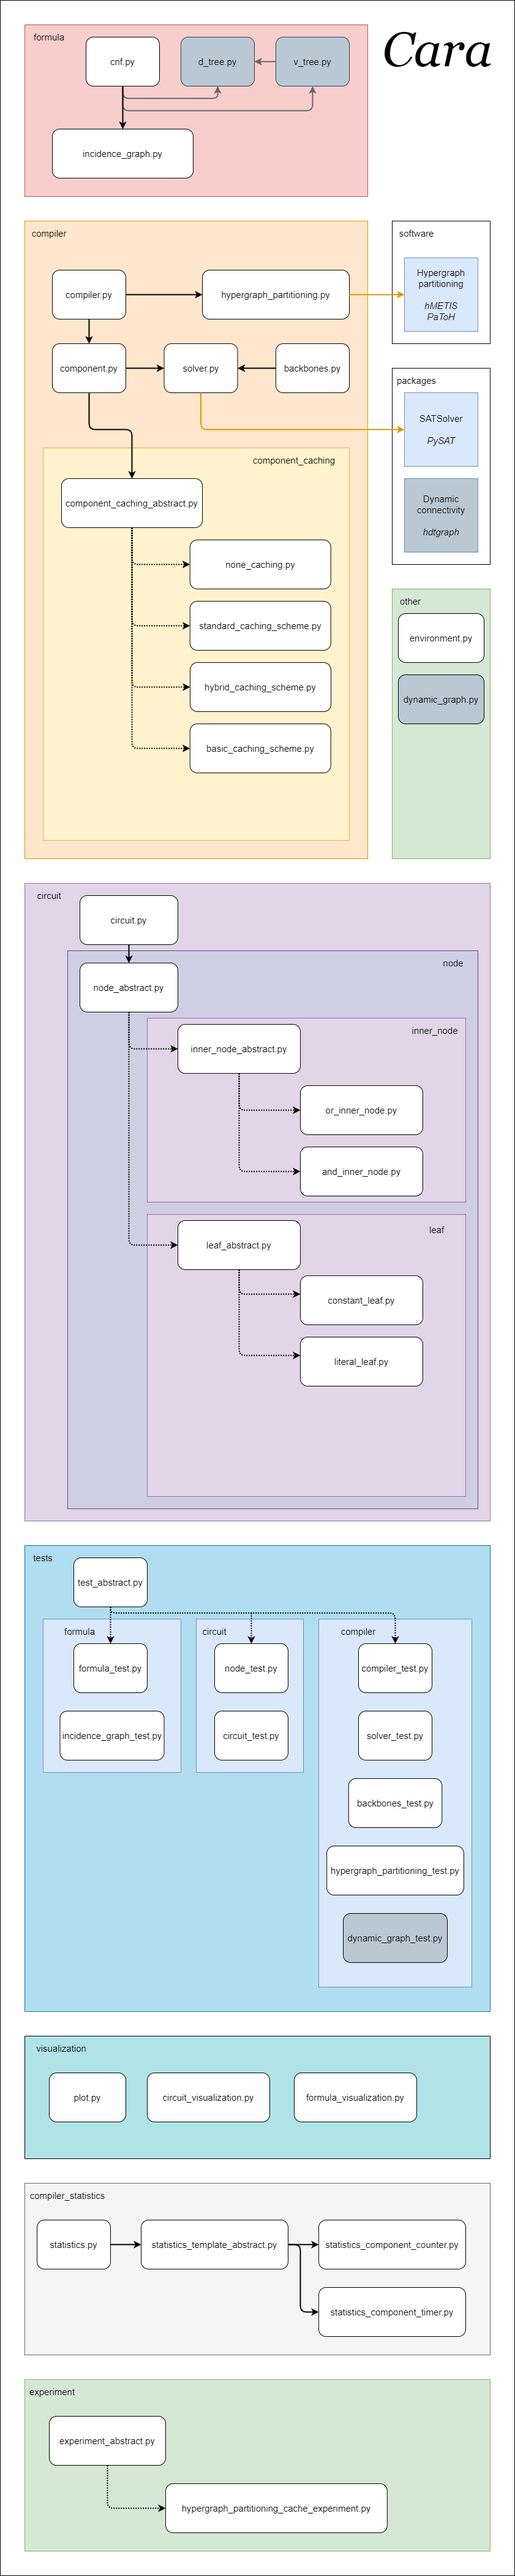
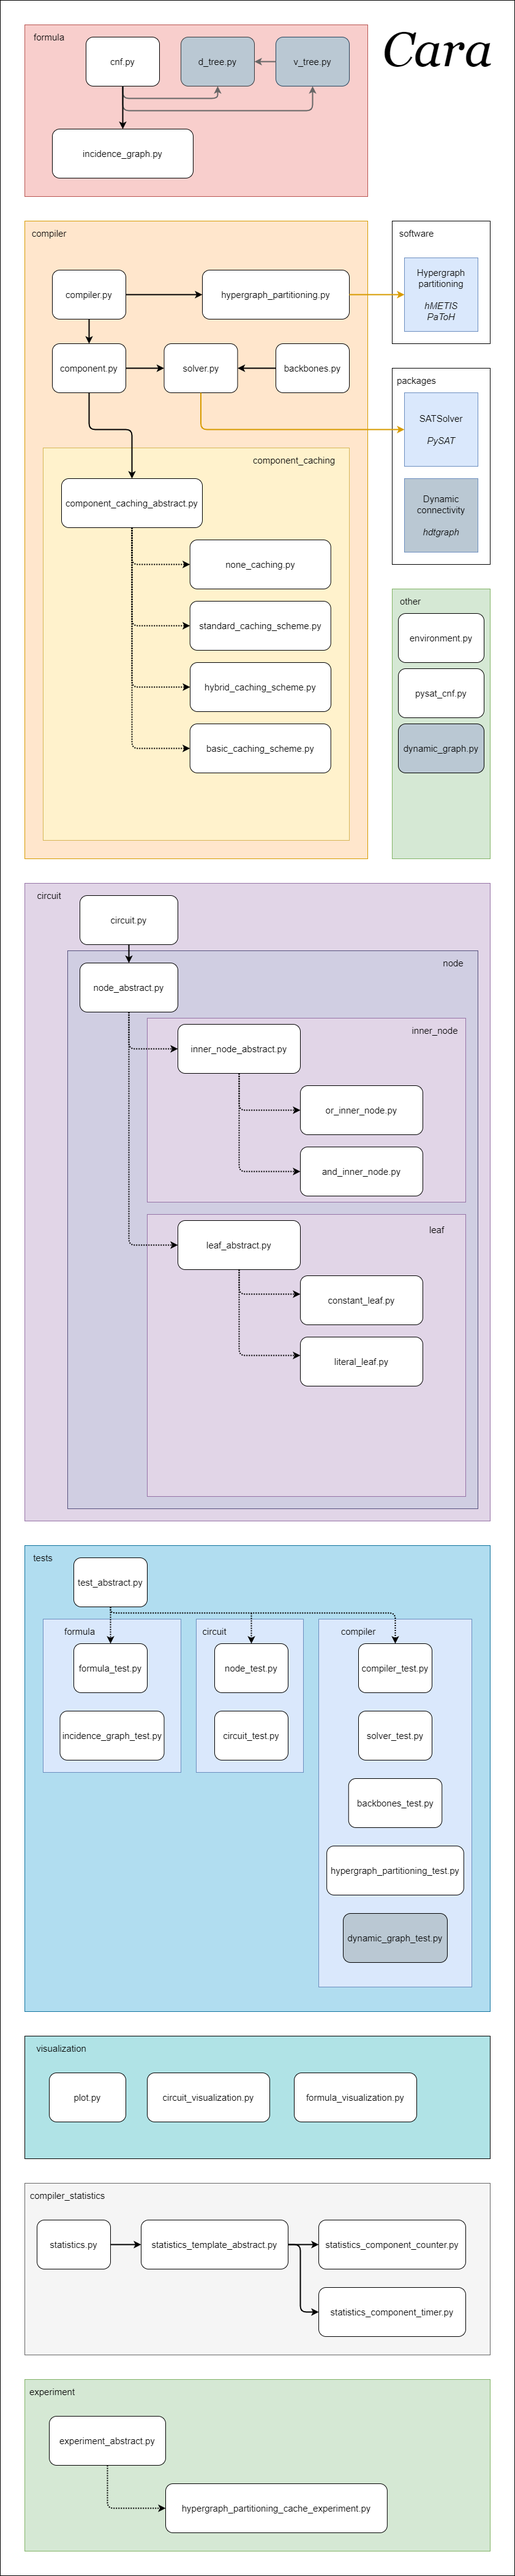
PySAT CNF

Changed region(s): [[0.7729, 0.2495, 0.9584, 0.3118]]

diff --git a/test.py b/test.py
@@ -12,12 +12,12 @@ import compiler.enum.hypergraph_partitioning.hypergraph_partitioning_software_en
 import compiler.enum.hypergraph_partitioning.hypergraph_partitioning_weight_type_enum as hpwt_enum
 import compiler.enum.hypergraph_partitioning.hypergraph_partitioning_variable_simplification_enum as hpvs_enum
 
-# path = r"D:\Storage\OneDrive\Škola\Vysoká škola\UK\Diplomová práce\Program\Cara\tests\formula\cnf\CNF_formulae\no_comments_valid.cnf"
+path = r"D:\Storage\OneDrive\Škola\Vysoká škola\UK\Diplomová práce\Program\Cara\tests\formula\cnf\CNF_formulae\no_comments_valid.cnf"
 # path = r"D:\Storage\OneDrive\Škola\Vysoká škola\UK\SAT benchmarks\D4\Handmade\LatinSquare\qg2-08.cnf"
 # path = r"D:\Storage\OneDrive\Škola\Vysoká škola\UK\Diplomová práce\Program\Cara\tests\formula\cnf\CNF_formulae\large_cnf_valid.cnf"
 
 # path = r"D:\Storage\OneDrive\Škola\Vysoká škola\UK\SAT benchmarks\D4\Handmade\LatinSquare\qg4-09.cnf"
-path = r"D:\Storage\OneDrive\Škola\Vysoká škola\UK\SAT benchmarks\D4\qif\sum.32.cnf"
+# path = r"D:\Storage\OneDrive\Škola\Vysoká škola\UK\SAT benchmarks\D4\qif\sum.32.cnf"
 start_time = time.time()
 
 cnf: Cnf = Cnf(path)

diff --git a/compiler/solver.py b/compiler/solver.py
@@ -1,7 +1,7 @@
 # Import
 import mmh3
 from formula.cnf import Cnf
-from pysat.formula import CNF
+from other.pysat_cnf import PySatCNF
 from other.sorted_list import SortedList
 from typing import Set, Dict, List, Tuple, Union
 from pysat.solvers import Minisat22, Glucose4, Lingeling, Cadical
@@ -22,7 +22,7 @@ class Solver:
     """
 
     """
-    Private CNF cnf
+    Private PySatCNF cnf
     Private Set<int> variable_set
     Private Set<int> implied_literal_set        # implied literals (implicit BCP) without any assumption
     Private SatSolverEnum sat_solver_enum
@@ -50,7 +50,7 @@ class Solver:
 
         self.__statistics.initialize.start_stopwatch()  # timer (start - initialize)
 
-        self.__cnf: CNF = CNF()
+        self.__cnf: PySatCNF = PySatCNF()
         self.__sat_solver_enum: ss_enum.SatSolverEnum = sat_solver_enum
 
         # Create a subformula

diff --git a/formula/incidence_graph.py b/formula/incidence_graph.py
@@ -2,6 +2,7 @@
 import mmh3
 import random
 import networkx as nx
+from other.pysat_cnf import PySatCNF
 from networkx.classes.graph import Graph
 from typing import Set, Dict, List, Union, TypeVar
 from compiler_statistics.formula.incidence_graph_statistics import IncidenceGraphStatistics
@@ -824,6 +825,19 @@ class IncidenceGraph(Graph):
 
         self.__statistics.copy_incidence_graph.stop_stopwatch()     # timer (stop)
         return copy
+
+    def convert_to_cnf(self) -> PySatCNF:
+        """
+        Convert the formula represented by the incidence graph to CNF
+        :return: PySAT CNF
+        """
+
+        cnf: PySatCNF = PySatCNF()
+
+        for clause_id in self.clause_id_set():
+            cnf.append(self.get_clause(clause_id))
+
+        return cnf
     # endregion
 
     # region Property

diff --git a/other/pysat_cnf.py b/other/pysat_cnf.py
@@ -1,0 +1,31 @@
+# Import
+from pysat.formula import CNF
+from typing import Set, List, Iterator, Union
+
+
+class PySatCNF(CNF):
+    """
+    PySAT CNF
+    """
+
+    """
+    Private Set<int> variable_set
+    """
+
+    def __init__(self):
+        super().__init__()
+
+        self.__variable_set: Set[int] = set()
+
+    def append(self, clause: Union[Iterator[int], Set[int], List[int]]) -> None:
+        self.__variable_set.update(map(lambda lit: abs(lit), clause))
+
+        super().append(clause)
+
+    def __str__(self):
+        result = " ".join(('p cnf', str(len(self.__variable_set)), str(len(self.clauses))))
+
+        for clause in self.clauses:
+            result = "\n".join((result, " ".join((" ".join(str(lit) for lit in clause), "0"))))
+
+        return result
